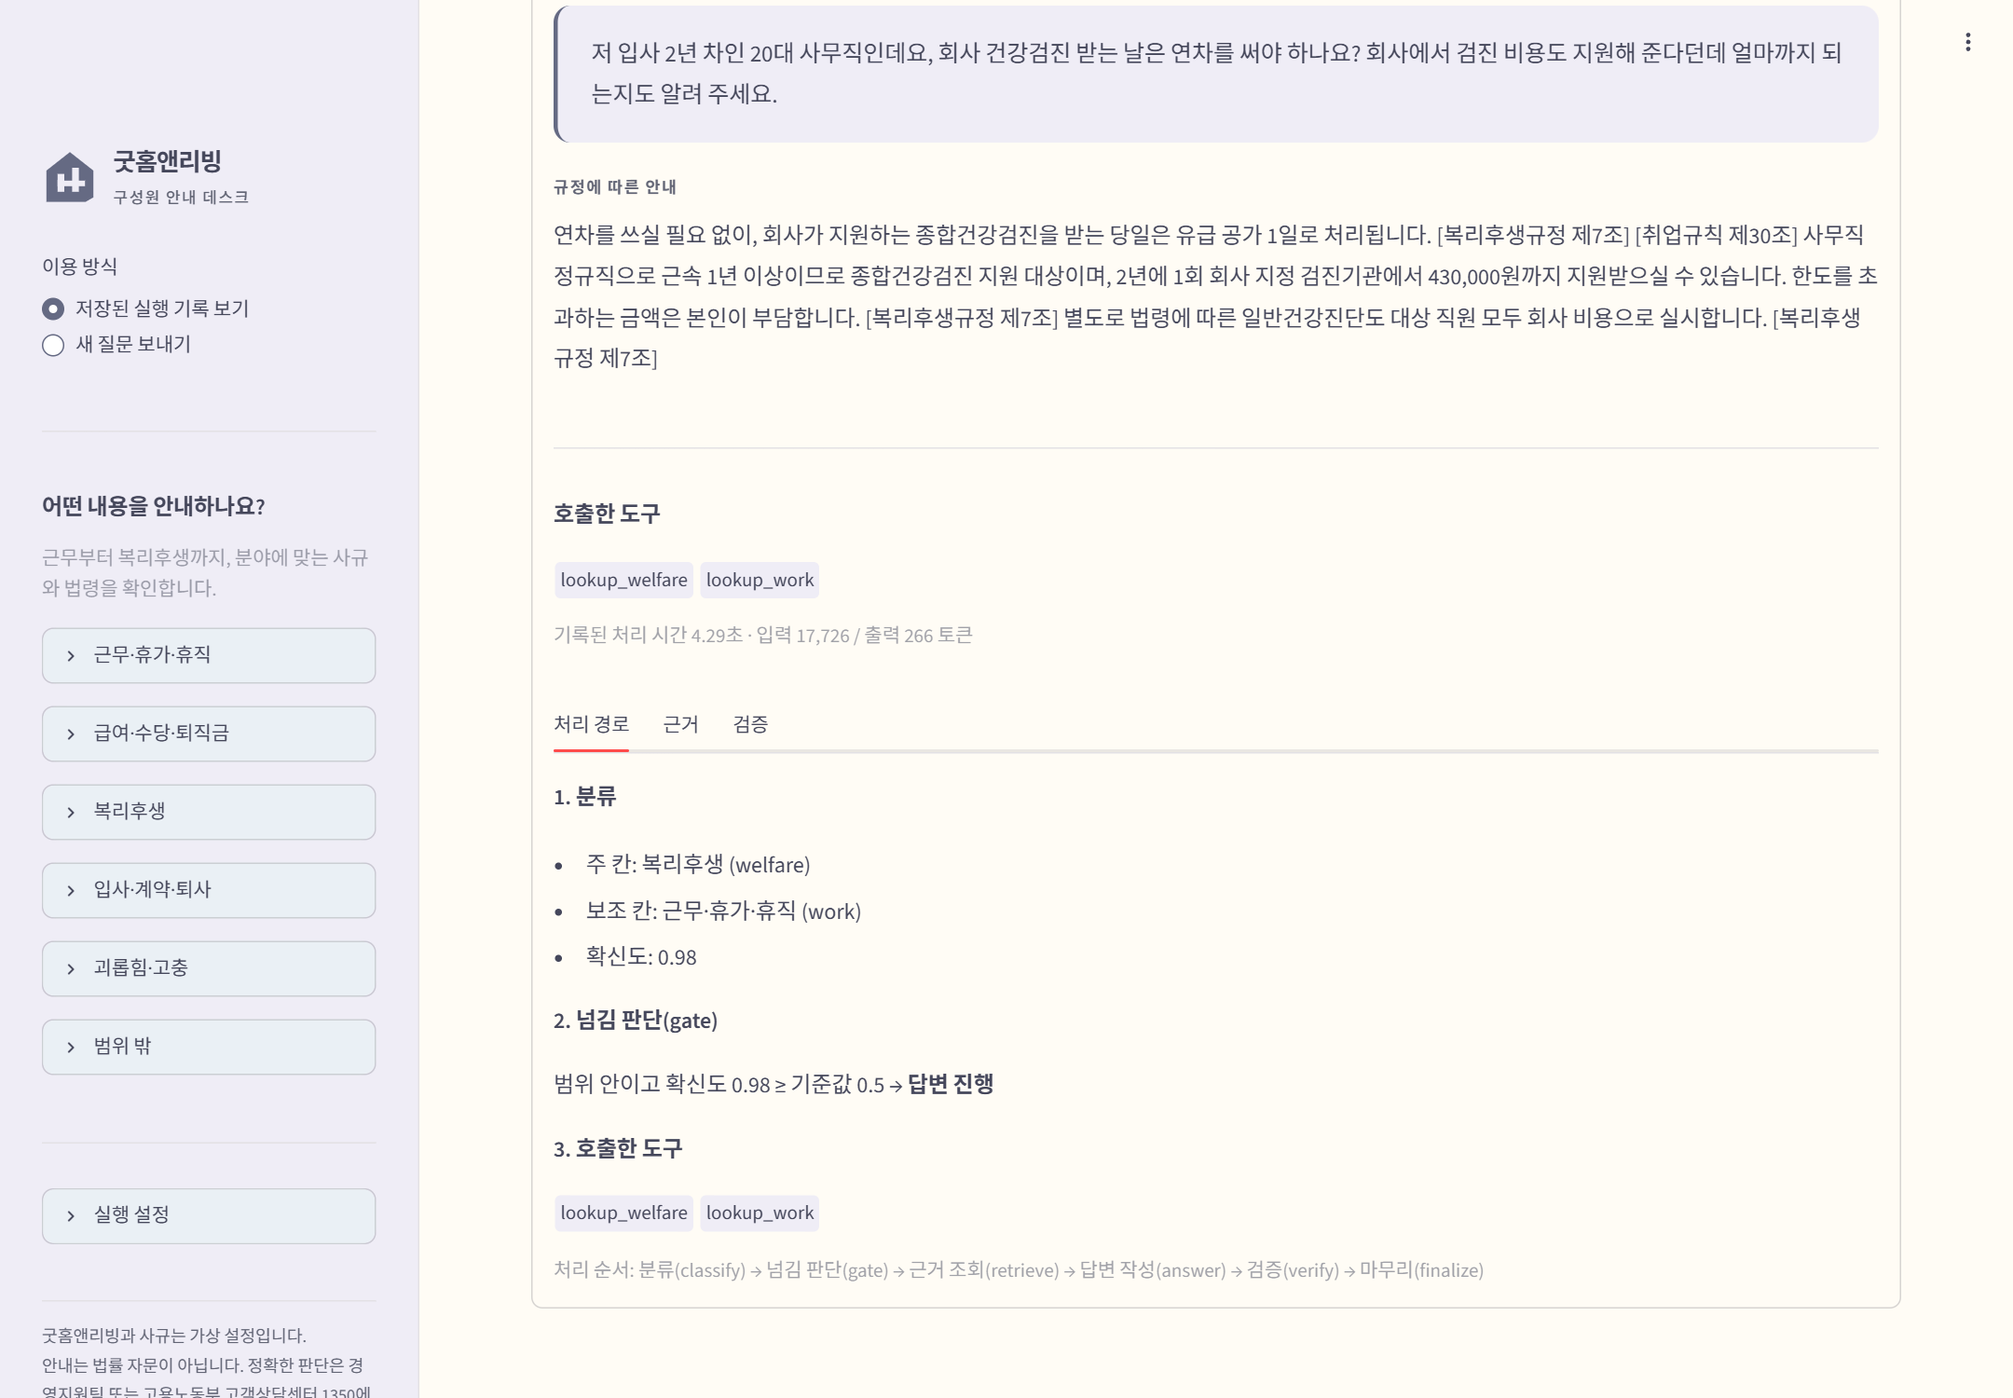
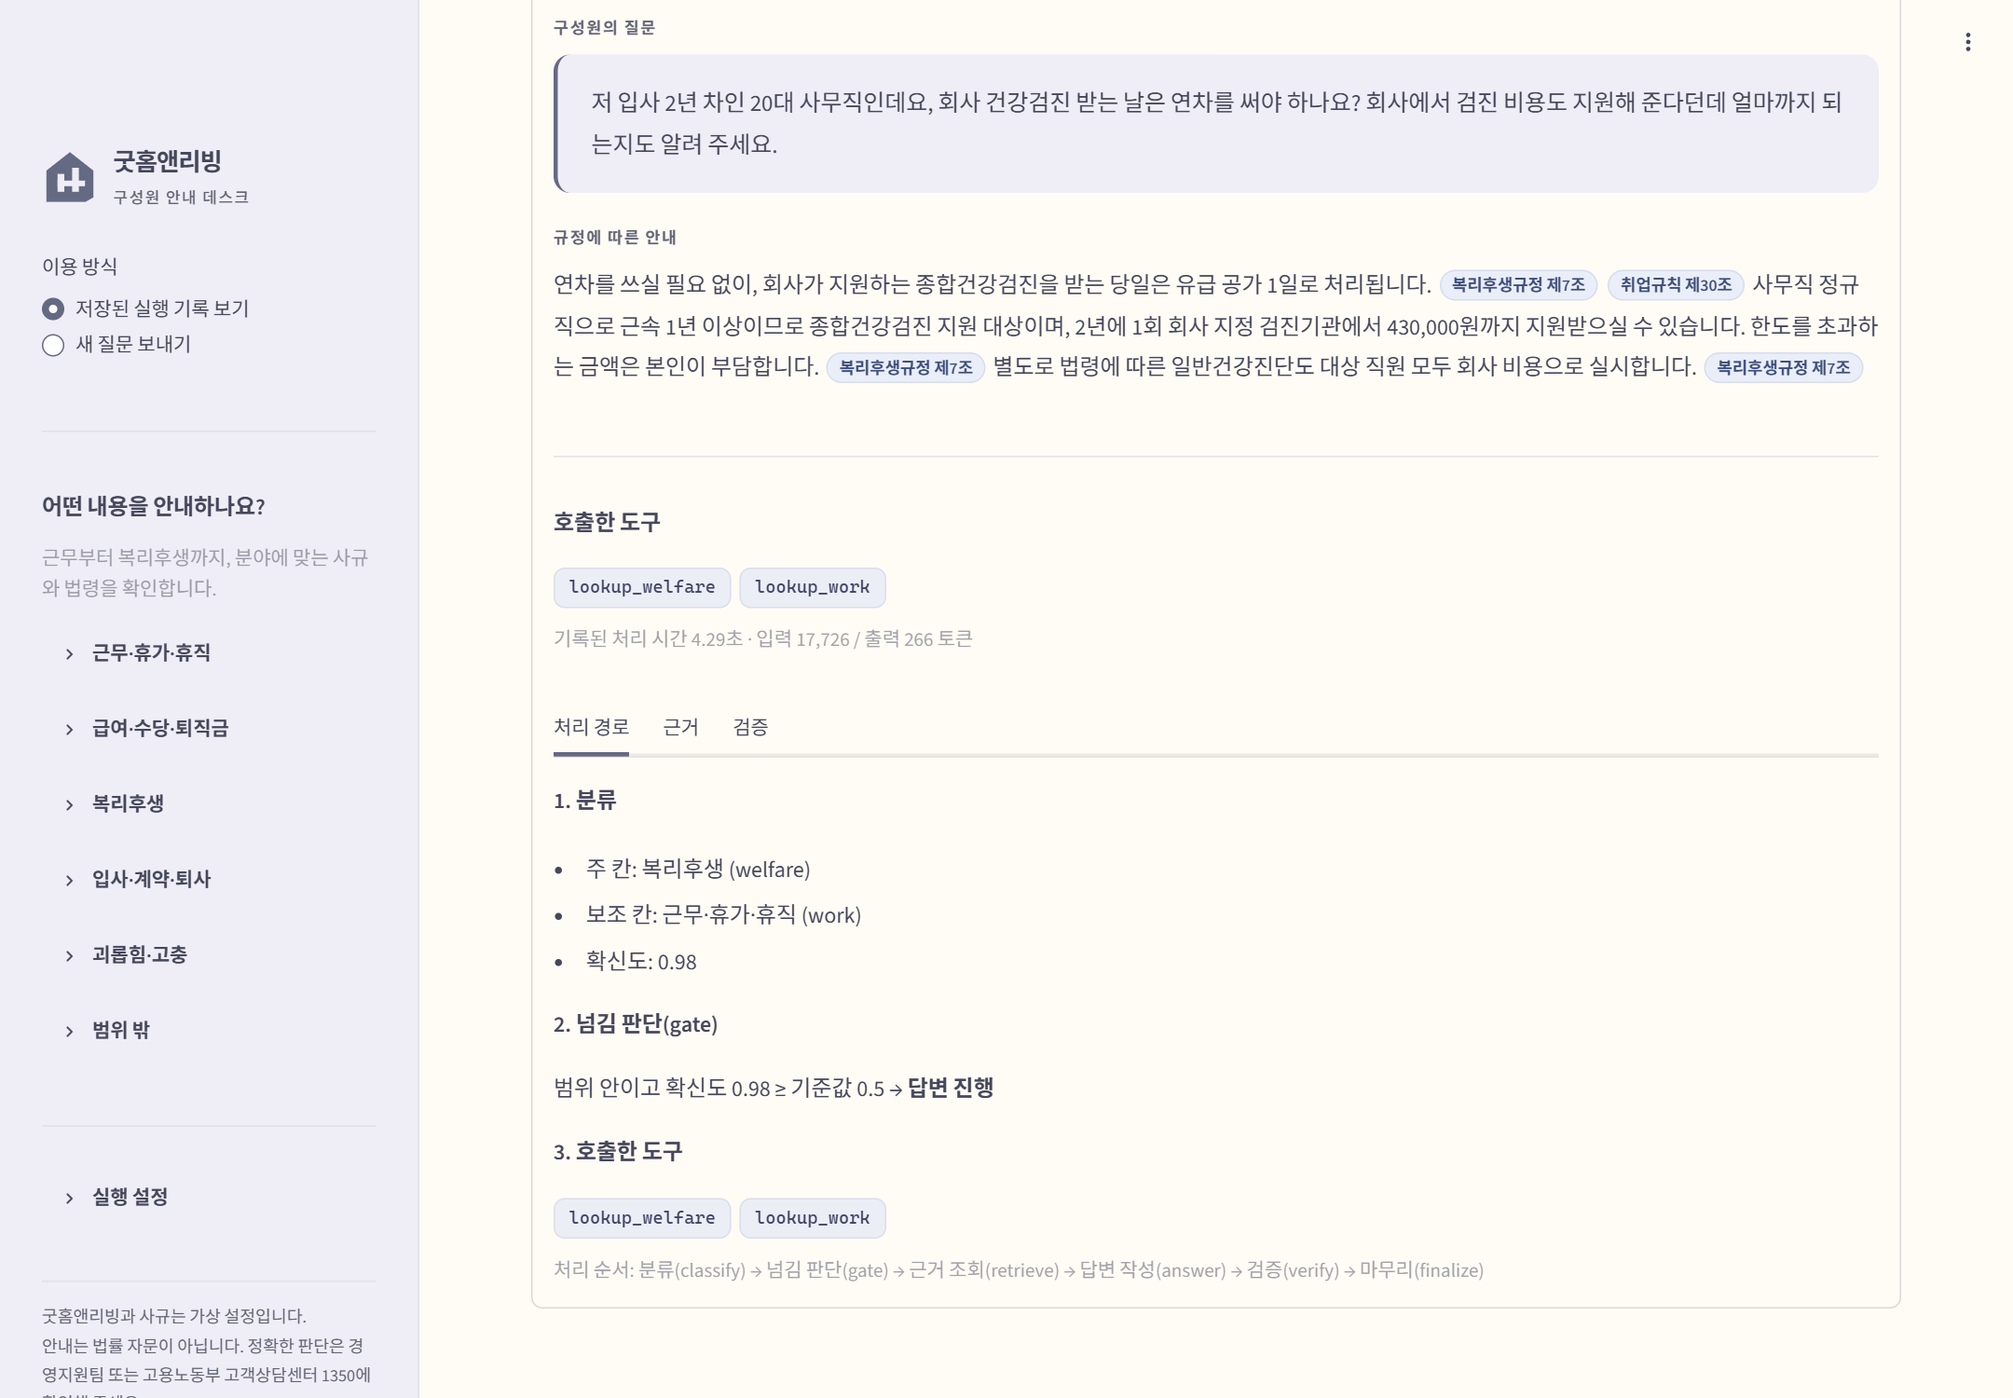
데모 화면 다듬기: 의미 색 배지와 한 줄 머리글
- 검증 결과를 통과·확인 필요·넘김 색 배지로 구분하고 글자도 함께 표시
- 조회 도구와 handoff 배지 색을 나누고, 주의·안내 상자를 주황·파랑으로 구분
- 답변 속 인용 표기를 알약 배지로 표시(이스케이프 후 적용)
- 소개 영역을 한 줄 머리글로 줄이고 사이드바 분야 목록을 가볍게 정리
- 테마 파일로 기본 강조색을 브랜드 색으로 통일
- 보고서 캡처와 6.2·6.4절 설명 갱신

diff --git a/app.py b/app.py
@@ -199,6 +199,51 @@ button[data-baseweb="tab"][aria-selected="true"] { color: var(--gh-ink); }
 }
 .stApp [data-testid="stFormSubmitButton"] button:disabled :is(p,span) { color: #626575 !important; }
 
+/* 소개 영역: 한 줄 머리글로 줄여 답변·근거가 첫 화면에 들어오게 한다. */
+.gh-hero { display: flex; align-items: center; justify-content: space-between; gap: 20px; flex-wrap: wrap; padding: 22px 28px; border-radius: 18px; margin-bottom: 28px; }
+.gh-hero h1 { font-size: clamp(1.3rem, 2.1vw, 1.65rem); line-height: 1.35; margin: 0 0 6px; }
+.gh-hero p { font-size: .92rem; }
+.gh-hero .gh-eyebrow { margin-bottom: 6px; }
+.gh-hero .gh-pill { margin-top: 0; }
+
+/* 상태 요약 카드와 의미 색 배지: 통과(초록)·확인 필요(빨강)·넘김(주황)을 글자와 색으로 함께 구분한다. */
+.gh-stats { display: grid; grid-template-columns: repeat(3, minmax(0, 1fr)); gap: 14px; margin: 4px 0 22px; }
+.gh-stat { background: #fff; border: 1px solid var(--gh-line); border-radius: 14px; padding: 16px 20px; box-shadow: 0 1px 2px rgba(69, 71, 91, .06); }
+.gh-stat-label { font-size: .78rem; color: var(--gh-muted); margin-bottom: 8px; }
+.gh-stat-value { font-size: 1.2rem; font-weight: 700; color: var(--gh-ink); letter-spacing: -.03em; line-height: 1.4; }
+.gh-chip { display: inline-flex; align-items: center; gap: 7px; border-radius: 999px; padding: 3px 12px; font-weight: 700; font-size: .95rem; line-height: 1.6; }
+.gh-chip::before { content: ""; width: 7px; height: 7px; border-radius: 50%; background: currentColor; }
+.gh-chip.gh-sm { font-size: .74rem; padding: 1px 9px; gap: 5px; vertical-align: 2px; margin-left: 4px; }
+.gh-ok { background: #E7F4EC; color: #1F6B3F; }
+.gh-bad { background: #FBE9E9; color: #9B2C2C; }
+.gh-warn { background: #FFF1D6; color: #855600; }
+.gh-tool { display: inline-block; font-family: ui-monospace, "Cascadia Code", Consolas, monospace; font-size: .8rem; padding: 3px 10px; border-radius: 8px; margin: 0 6px 4px 0; background: #ECEEF6; color: #3F4566; border: 1px solid #DADDEB; }
+.gh-tool-handoff { background: #FFF1D6; color: #855600; border-color: #F0D9A6; }
+.gh-tools { margin: 2px 0 8px; }
+
+/* 답변 속 근거 표시 [취업규칙 제13조]를 작은 배지로 */
+.gh-cite { display: inline-block; font-size: .74em; font-weight: 600; padding: 0 8px; border-radius: 999px; background: #E9EEF8; color: #3F4F7A; border: 1px solid #D5DDEE; white-space: nowrap; margin: 0 2px; vertical-align: 1px; line-height: 1.7; }
+
+/* 넘김·재작성 안내: 주의(주황)와 안내(파랑)를 나눈다 */
+.gh-alert { border: 1px solid; border-radius: 12px; padding: 13px 18px; margin: 0 0 18px; font-size: .95rem; line-height: 1.65; }
+.gh-alert strong { font-weight: 700; margin-right: 6px; }
+.gh-alert-warn { background: #FFF8E8; border-color: #F0D9A6; color: #6B4800; }
+.gh-alert-info { background: #EEF3FA; border-color: #D5DDEE; color: #36456B; }
+
+/* 사이드바 분야 목록: 테두리 상자 대신 가벼운 메뉴 줄 */
+.stApp [data-testid="stSidebar"] [data-testid="stExpander"],
+.stApp [data-testid="stSidebar"] [data-testid="stExpander"] details { border: none !important; background: transparent !important; box-shadow: none !important; margin-bottom: 0; }
+.stApp [data-testid="stSidebar"] [data-testid="stExpander"] summary,
+.stApp [data-testid="stSidebar"] [data-testid="stExpander"] details[open] > summary { background: transparent !important; border-radius: 8px; padding-top: 6px; padding-bottom: 6px; }
+.stApp [data-testid="stSidebar"] [data-testid="stExpander"] summary:hover { background: rgba(101, 106, 131, .09) !important; }
+.stApp [data-testid="stSidebar"] [data-testid="stExpander"] summary p { font-weight: 600; }
+.stApp [data-testid="stSidebar"] [data-testid="stExpander"] [data-testid="stExpanderDetails"] { padding-top: 0; }
+
+/* 선택된 탭 밑줄도 브랜드색으로(테마 설정이 적용되지 않는 버전 대비) */
+.stApp [data-testid="stTabs"] [role="tab"][aria-selected="true"] { box-shadow: inset 0 -3px 0 #656A83; }
+
+@media (max-width: 640px) { .gh-stats { grid-template-columns: 1fr; } .gh-hero { padding: 18px 20px; } }
+
 </style>
 """, unsafe_allow_html=True)
 
@@ -299,13 +344,29 @@ def node_path(s: dict) -> str:
 # ── 그리기 ────────────────────────────────────────────────────────────
 
 def tool_badges(tools: list[str]) -> str:
+    """조회 도구는 남색, handoff는 주황 배지(HTML)."""
     if not tools:
         return "없음"
     out = []
     for t in tools:
-        color = "orange" if t == context.HANDOFF_TOOL else "gray"
-        out.append(f":{color}-badge[{t}]")
-    return " ".join(out)
+        cls = "gh-tool gh-tool-handoff" if t == context.HANDOFF_TOOL else "gh-tool"
+        out.append(f'<span class="{cls}">{escape(t)}</span>')
+    return '<div class="gh-tools">' + "".join(out) + "</div>"
+
+
+def chip(text: str, tone: str, small: bool = False) -> str:
+    """tone: ok(초록) | bad(빨강) | warn(주황). 색만이 아니라 글자로도 상태를 적는다."""
+    return f'<span class="gh-chip gh-{tone}{" gh-sm" if small else ""}">{escape(text)}</span>'
+
+
+def alert(kind: str, title: str, body: str) -> str:
+    return f'<div class="gh-alert gh-alert-{kind}"><strong>{escape(title)}</strong>{escape(body)}</div>'
+
+
+def answer_html(text: str) -> str:
+    """답변 본문의 [근거 id]를 배지로 바꾼다. 모델 출력은 HTML로 해석되지 않게 먼저 이스케이프한다."""
+    safe = md_safe(escape(text or "(답변 없음)", quote=False))
+    return re.sub(r"\[([^\[\]\n]{1,80})\]", lambda m: f'<span class="gh-cite">{m.group(1)}</span>', safe)
 
 
 def show_route(s: dict):
@@ -331,7 +392,7 @@ def show_route(s: dict):
         st.markdown(f"범위 안이고 확신도 {conf_txt} ≥ 기준값 {th} → **답변 진행**")
 
     st.markdown("**3. 호출한 도구**")
-    st.markdown(tool_badges(s.get("tools_called") or []))
+    st.markdown(tool_badges(s.get("tools_called") or []), unsafe_allow_html=True)
     st.caption("처리 순서: " + node_path(s))
 
 
@@ -372,11 +433,11 @@ def show_verify(s: dict):
         st.info("넘김 경로라 답변 검증을 하지 않았습니다.")
         return
     if len(log) > 1:
-        st.warning(f"1회차 검증에 걸려 문제 목록을 돌려주고 답변을 다시 썼습니다(총 {len(log)}회 작성).")
+        st.markdown(alert("warn", "다시 작성함", f"1회차 검증에 걸려 문제 목록을 돌려주고 답변을 다시 썼습니다(총 {len(log)}회 작성)."),
+                    unsafe_allow_html=True)
     for v in log:
-        ok = v.get("ok")
-        mark = ":green-badge[통과]" if ok else ":red-badge[실패]"
-        st.markdown(f"**{v.get('attempt', '?')}회차** {mark}")
+        mark = chip("통과", "ok", small=True) if v.get("ok") else chip("실패", "bad", small=True)
+        st.markdown(f"**{v.get('attempt', '?')}회차** {mark}", unsafe_allow_html=True)
         for p in v.get("problems") or []:
             st.markdown(f"- {md_safe(p)}")
         nums = v.get("checked_numbers") or []
@@ -399,27 +460,31 @@ def show_record(rec: dict):
         return
     s = rec["state"]
     log = s.get("verify_log") or []
-    vtxt = "검증 없음 · 넘김" if not log else ("통과" if log[-1].get("ok") else "확인 필요")
+    if not log:
+        verdict = chip("검증 없음 · 넘김", "warn")
+    else:
+        verdict = chip("통과", "ok") if log[-1].get("ok") else chip("확인 필요", "bad")
     chunks = evidence_chunks(s)
     used = [cid for cid in cited_ids(s, chunks) if cid in chunks]
-    c1, c2, c3 = st.columns(3)
-    c1.metric("담당 분야", category_name(s.get("category")).split(" (")[0])
-    c2.metric("인용한 근거", f"{len(used)}개")
-    c3.metric("기록된 검증 결과", vtxt)
-    st.write("")
+    area = escape(category_name(s.get("category")).split(" (")[0])
+    st.markdown(f"""<div class="gh-stats">
+<div class="gh-stat"><div class="gh-stat-label">담당 분야</div><div class="gh-stat-value">{area}</div></div>
+<div class="gh-stat"><div class="gh-stat-label">인용한 근거</div><div class="gh-stat-value">{len(used)}개</div></div>
+<div class="gh-stat"><div class="gh-stat-label">기록된 검증 결과</div><div class="gh-stat-value">{verdict}</div></div>
+</div>""", unsafe_allow_html=True)
     with st.container(border=True):
         st.markdown('<div class="gh-label">구성원의 질문</div>', unsafe_allow_html=True)
         st.markdown(f'<div class="gh-question">{escape(rec["question"])}</div>', unsafe_allow_html=True)
         kind, note = outcome(s)
         if kind.startswith("handoff"):
-            st.warning("담당 창구 확인이 필요해요 · " + note)
+            st.markdown(alert("warn", "담당 창구 확인이 필요해요", note), unsafe_allow_html=True)
         elif kind == "partial":
-            st.info("일부 내용은 담당 창구에 확인해 주세요 · " + note)
+            st.markdown(alert("info", "일부는 담당 창구에 확인해 주세요", note), unsafe_allow_html=True)
         st.markdown('<div class="gh-label">규정에 따른 안내</div>', unsafe_allow_html=True)
-        st.markdown(md_safe(s.get("final_answer") or "(답변 없음)"))
+        st.markdown(answer_html(s.get("final_answer")), unsafe_allow_html=True)
         st.divider()
         st.markdown("**호출한 도구**")
-        st.markdown(tool_badges(s.get("tools_called") or []))
+        st.markdown(tool_badges(s.get("tools_called") or []), unsafe_allow_html=True)
         usage = s.get("usage") or {}
         st.caption(f"기록된 처리 시간 {s.get('seconds', '?')}초 · 입력 {usage.get('input_tokens', 0):,} / 출력 {usage.get('output_tokens', 0):,} 토큰")
         st.write("")
@@ -479,9 +544,11 @@ with st.sidebar:
     st.markdown('<div class="gh-footer">굿홈앤리빙과 사규는 가상 설정입니다.<br>안내는 법률 자문이 아닙니다. 정확한 판단은 경영지원팀 또는 고용노동부 고객상담센터 1350에 확인해 주세요.</div>', unsafe_allow_html=True)
 
 st.markdown("""<div class="gh-hero">
+<div>
 <div class="gh-eyebrow">굿홈앤리빙 · 구성원 지원</div>
-<h1>궁금한 회사 규정,<br>근거와 함께 확인하세요.</h1>
-<p>근무 · 급여 · 복리후생 · 계약 · 고충까지<br>답변의 근거와 확인 과정을 한곳에서 살펴보세요.</p>
+<h1>궁금한 회사 규정, 근거와 함께 확인하세요.</h1>
+<p>근무 · 급여 · 복리후생 · 계약 · 고충까지, 답변의 근거와 확인 과정을 한곳에서 살펴보세요.</p>
+</div>
 <span class="gh-pill">사규와 법령에 기반한 안내</span>
 </div>""", unsafe_allow_html=True)
 

diff --git a/REPORT.md b/REPORT.md
@@ -855,10 +855,10 @@ flowchart TD
 | 영역 | 보여 주는 것 |
 |---|---|
 | 사이드바 | 집의 지붕·직물 짜임 심벌과 브랜드 이름, 이용 방식 선택, 분야별 안내, 접을 수 있는 실행 설정(모델·확신도 기준·개선 스위치), 가상 회사와 법률 자문 관련 안내. 대화 지우기는 새 질문 모드에서만 표시 |
-| 상단 소개 | 크림색 전체 바탕과 버터 옐로 소개 영역. 안내 범위와 사규·법령 기반이라는 성격을 표시 |
+| 상단 소개 | 크림색 전체 바탕과 한 줄 높이의 버터 옐로 머리글. 안내 범위와 사규·법령 기반이라는 성격을 표시하고, 첫 화면에 답변이 함께 들어오도록 높이를 줄임 |
 | 기록 선택 | 기본 모드인 저장된 실행 기록 보기. 평가 기록 재생 표시, 질문 선택, 당시 설정과 검증 결과·현재 근거 문서의 구분 안내 |
-| 상태 요약 | 담당 분야, 인용한 근거 수, 기록된 검증 결과를 세 카드로 표시 |
-| 질문·답변 카드 | 소프트 라일락 질문 영역과 본문 답변, 넘김 안내, 호출한 도구 배지, 기록된 시간·토큰 |
+| 상태 요약 | 담당 분야, 인용한 근거 수, 기록된 검증 결과를 세 카드로 표시. 검증 결과는 통과(초록)·확인 필요(빨강)·검증 없음·넘김(주황) 배지 |
+| 질문·답변 카드 | 소프트 라일락 질문 영역과 본문 답변, 넘김 안내, 호출한 도구 배지, 기록된 시간·토큰. 답변 속 `[취업규칙 제13조]` 같은 인용 표기는 작은 알약 배지로 표시 |
 | 확인 탭 | 처리 경로 → 근거 → 검증 순서. 인용 원문과 회차별 검증 내용을 확인 |
 | 새 질문 모드 | 예시 질문 버튼을 전체 너비로 하나씩 세로 배치. 긴 질문은 넓은 화면에서 한 줄로, 좁은 화면에서는 자연스럽게 줄바꿈. 입력란·대화 기록을 유지하며 자동으로 질문을 보내지 않음 |
 
@@ -881,12 +881,14 @@ flowchart TD
 | 질문과 답변의 시각적 구분 | 질문은 라일락 블록, 답변은 흰 카드 본문으로 나눠 긴 문장에서도 역할이 분명하게 보임 |
 | 집·직물 심벌 일관 적용 | 사이드바와 브라우저 아이콘에 같은 벡터 심벌을 사용. 별도 외부 파일 요청 없이 표시 |
 | 상세 실행 설정은 접기 | 기본 화면에는 이용 방식과 분야를 먼저 보여 주고 모델·스위치는 필요할 때 확인 |
-| 통과·확인 필요·넘김을 문구로 표시 | 색상만으로 판단하게 하지 않으며, 검증을 하지 않은 넘김은 통과와 구분 |
+| 통과·확인 필요·넘김을 색과 문구로 함께 표시 | 통과는 초록, 실패·확인 필요는 빨강, 넘김은 주황 배지로 한눈에 구분하되 글자도 함께 적어 색상만으로 판단하게 하지 않음. 검증을 하지 않은 넘김은 통과와 구분 |
+| 도구 배지와 안내 상자의 의미 색 | 조회 도구(`lookup_*`)는 남색, `handoff`는 주황 배지. 넘김·부분 답변 같은 주의는 주황 상자, 재작성 같은 안내는 파란 상자로 나눔 |
+| 강조색 통일 | 테마 파일 `.streamlit/config.toml`에서 탭 밑줄·라디오·포커스 테두리의 기본 빨강을 라벤더 그레이로 바꾸고, 사이드바 분야 목록은 테두리 없는 메뉴 줄로 가볍게 함 |
 | 인용 원문과 검증 기록 보존 | 필수 확인 정보는 삭제하지 않고 탭과 펼치기로 유지. 인용한 조각만 우선 펼칠 수 있게 함 |
 | 시스템 테마에 따른 대비 충돌 방지 | 확정된 밝은 파스텔 화면을 유지하며, 글자·입력·버튼·배지·펼침 제목·목록 포털의 배경과 전경을 함께 지정. React Aria와 기존 위젯 구조를 모두 처리 |
 | 좁은 화면 대응 | 상단 제목은 화면 폭에 맞춰 크기를 조정하고, 소개·질문 영역 여백도 줄임 |
 | 재생과 새 질문 구분 | 기본은 모델 호출 없는 평가 기록 재생이며, 새 질문은 별도 모드. 당시 기록과 현재 설정을 혼동하지 않도록 안내 |
-| 안전한 문구 표시 | 질문을 HTML 블록으로 표시할 때 특수문자를 이스케이프하고, 답변·근거는 기존 마크다운 표기 보정 유지 |
+| 안전한 문구 표시 | 질문과 답변을 HTML로 표시할 때 특수문자를 먼저 이스케이프한 뒤 인용 배지만 덧씌움. 모델 답변에 `<script>` 같은 태그가 섞여도 실행되지 않고 글자로 보임 |
 
 확인 범위: 라이트·다크 설정 각각에서 재생 50문항과 새 질문의 입력·저장 기록·오류·키 미설정 상태를 모델·질문 실행 경로를 차단한 AppTest로 확인했다. 실제 브라우저에서도 두 테마의 결과 세 탭, 인용 원문과 설정 펼침, 새 질문 입력을 확인했고 다크 설정의 드롭다운 목록도 확인했다. 새 질문 전송은 하지 않았다. 화면은 시스템 테마와 관계없이 밝은 브랜드 팔레트를 사용한다. 별도의 어두운 브랜드 팔레트를 제공한다는 뜻은 아니다. 모든 운영체제·브라우저 조합을 확인한 것은 아니다.
 
